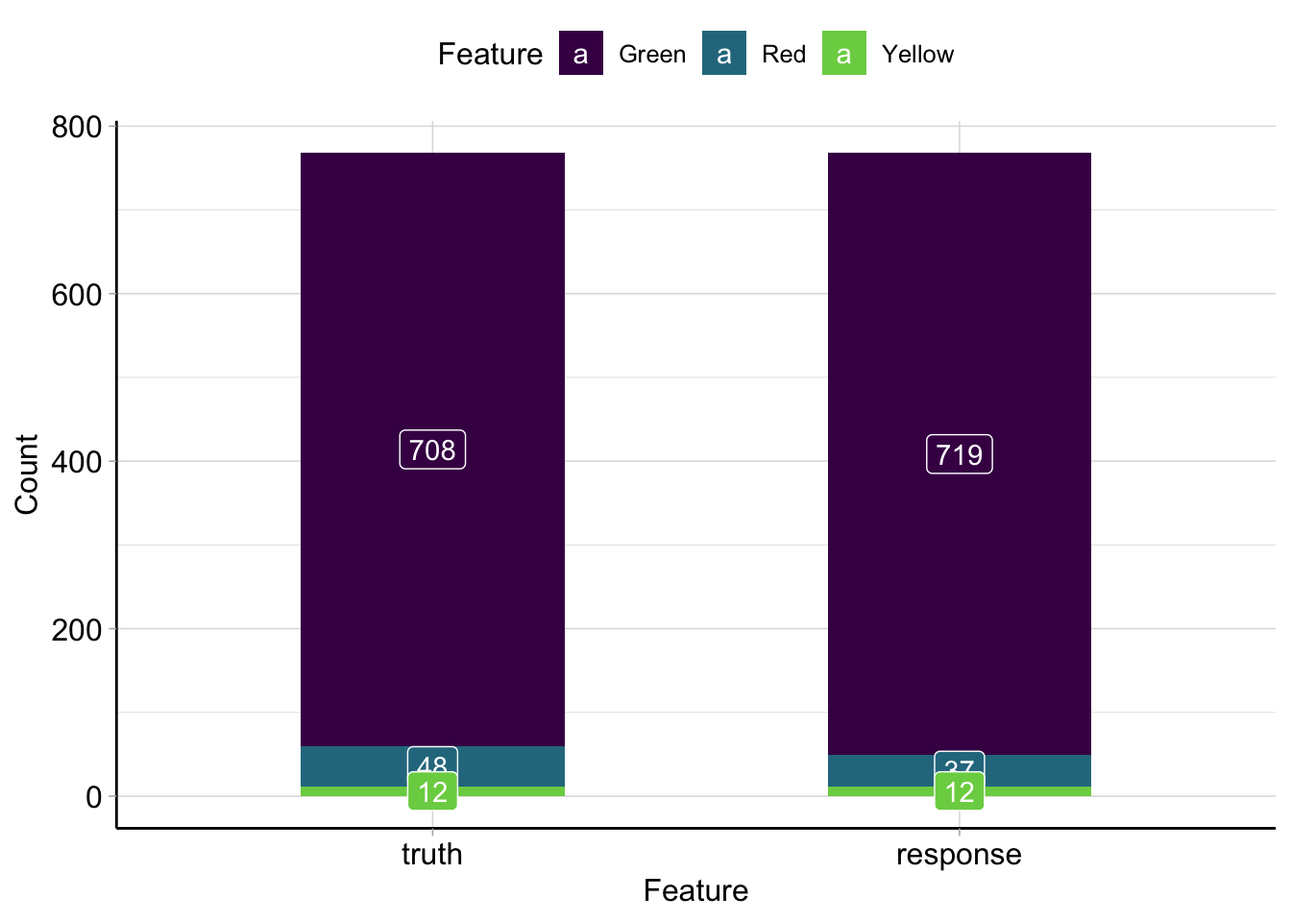
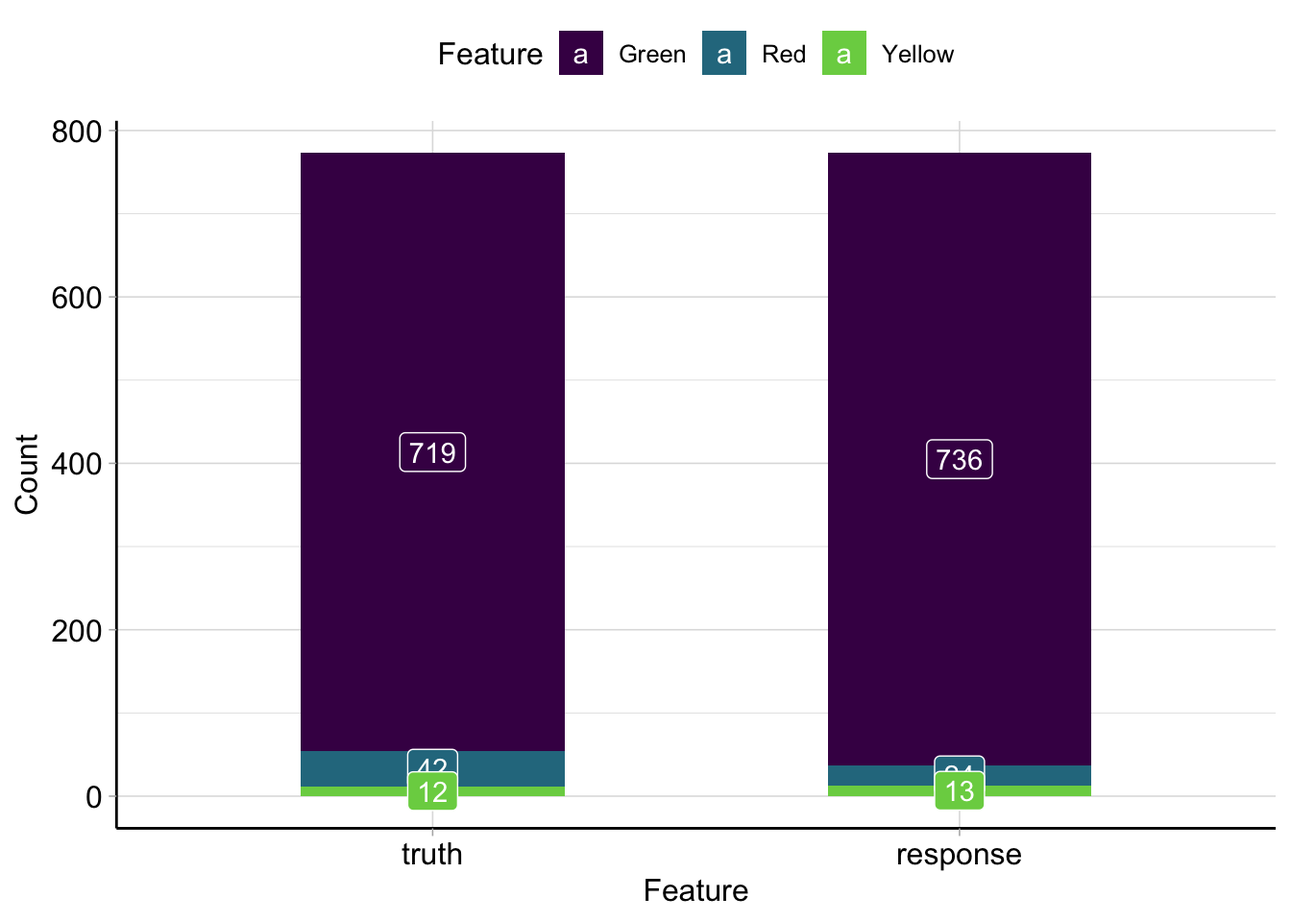
feat: changed to panel data version

diff --git a/notebooks/supplier-case-study.html b/notebooks/supplier-case-study.html
@@ -703,29 +703,21 @@ code span.wa { color: #60a0b0; font-weight: bold; font-style: italic; } /* Warni
 <div class="sourceCode cell-code" id="cb17"><pre class="sourceCode r code-with-copy"><code class="sourceCode r"><span id="cb17-1"><a href="#cb17-1" aria-hidden="true" tabindex="-1"></a>supplier <span class="ot">&lt;-</span> <span class="fu">import_data</span>(<span class="st">"../Data/"</span>) <span class="sc">%&gt;%</span></span>
 <span id="cb17-2"><a href="#cb17-2" aria-hidden="true" tabindex="-1"></a>  <span class="fu">clean_cols</span>() <span class="sc">%&gt;%</span> </span>
 <span id="cb17-3"><a href="#cb17-3" aria-hidden="true" tabindex="-1"></a>  <span class="fu">impute_missing</span>() <span class="sc">%&gt;%</span> </span>
-<span id="cb17-4"><a href="#cb17-4" aria-hidden="true" tabindex="-1"></a>  <span class="fu">drop_cols</span>() <span class="sc">%&gt;%</span></span>
-<span id="cb17-5"><a href="#cb17-5" aria-hidden="true" tabindex="-1"></a>  <span class="fu">add_date_feat</span>() <span class="sc">%&gt;%</span></span>
-<span id="cb17-6"><a href="#cb17-6" aria-hidden="true" tabindex="-1"></a>  <span class="fu">add_interaction</span>() <span class="sc">%&gt;%</span> </span>
-<span id="cb17-7"><a href="#cb17-7" aria-hidden="true" tabindex="-1"></a>  <span class="fu">add_count</span>() <span class="sc">%&gt;%</span> </span>
-<span id="cb17-8"><a href="#cb17-8" aria-hidden="true" tabindex="-1"></a>  <span class="fu">apply_lags</span>() <span class="sc">%&gt;%</span> </span>
-<span id="cb17-9"><a href="#cb17-9" aria-hidden="true" tabindex="-1"></a>  <span class="fu">ungroup</span>()</span>
-<span id="cb17-10"><a href="#cb17-10" aria-hidden="true" tabindex="-1"></a>  </span>
-<span id="cb17-11"><a href="#cb17-11" aria-hidden="true" tabindex="-1"></a>train_data <span class="ot">&lt;-</span> supplier <span class="sc">%&gt;%</span></span>
-<span id="cb17-12"><a href="#cb17-12" aria-hidden="true" tabindex="-1"></a>  <span class="fu">group_by</span>(supplier_id, derivative_name) <span class="sc">%&gt;%</span> </span>
-<span id="cb17-13"><a href="#cb17-13" aria-hidden="true" tabindex="-1"></a>  <span class="fu">arrange</span>(recent_month) <span class="sc">%&gt;%</span> </span>
-<span id="cb17-14"><a href="#cb17-14" aria-hidden="true" tabindex="-1"></a>  <span class="fu">slice</span>(<span class="dv">1</span><span class="sc">:</span>(<span class="fu">n</span>() <span class="sc">-</span> <span class="dv">1</span>)) <span class="sc">%&gt;%</span></span>
-<span id="cb17-15"><a href="#cb17-15" aria-hidden="true" tabindex="-1"></a>  <span class="fu">ungroup</span>() <span class="sc">%&gt;%</span> </span>
-<span id="cb17-16"><a href="#cb17-16" aria-hidden="true" tabindex="-1"></a>  <span class="fu">select</span>(<span class="sc">-</span><span class="fu">c</span>(recent_month))</span>
-<span id="cb17-17"><a href="#cb17-17" aria-hidden="true" tabindex="-1"></a></span>
-<span id="cb17-18"><a href="#cb17-18" aria-hidden="true" tabindex="-1"></a>test_data <span class="ot">&lt;-</span> supplier <span class="sc">%&gt;%</span></span>
-<span id="cb17-19"><a href="#cb17-19" aria-hidden="true" tabindex="-1"></a>  <span class="fu">group_by</span>(supplier_id, derivative_name) <span class="sc">%&gt;%</span> </span>
-<span id="cb17-20"><a href="#cb17-20" aria-hidden="true" tabindex="-1"></a>  <span class="fu">arrange</span>(recent_month) <span class="sc">%&gt;%</span> </span>
-<span id="cb17-21"><a href="#cb17-21" aria-hidden="true" tabindex="-1"></a>  <span class="fu">slice</span>(<span class="fu">n</span>()) <span class="sc">%&gt;%</span></span>
-<span id="cb17-22"><a href="#cb17-22" aria-hidden="true" tabindex="-1"></a>  <span class="fu">ungroup</span>() <span class="sc">%&gt;%</span> </span>
-<span id="cb17-23"><a href="#cb17-23" aria-hidden="true" tabindex="-1"></a>  <span class="fu">select</span>(<span class="sc">-</span><span class="fu">c</span>(recent_month))</span>
-<span id="cb17-24"><a href="#cb17-24" aria-hidden="true" tabindex="-1"></a></span>
-<span id="cb17-25"><a href="#cb17-25" aria-hidden="true" tabindex="-1"></a>all_data <span class="ot">&lt;-</span> supplier <span class="sc">%&gt;%</span> </span>
-<span id="cb17-26"><a href="#cb17-26" aria-hidden="true" tabindex="-1"></a>  <span class="fu">select</span>(<span class="sc">-</span><span class="fu">c</span>(recent_month))</span></code><button title="Copy to Clipboard" class="code-copy-button"><i class="bi"></i></button></pre></div>
+<span id="cb17-4"><a href="#cb17-4" aria-hidden="true" tabindex="-1"></a>  <span class="fu">remove_missing_date</span>() <span class="sc">%&gt;%</span> </span>
+<span id="cb17-5"><a href="#cb17-5" aria-hidden="true" tabindex="-1"></a>  <span class="fu">drop_cols</span>() <span class="sc">%&gt;%</span></span>
+<span id="cb17-6"><a href="#cb17-6" aria-hidden="true" tabindex="-1"></a>  <span class="fu">add_date_feat</span>() <span class="sc">%&gt;%</span></span>
+<span id="cb17-7"><a href="#cb17-7" aria-hidden="true" tabindex="-1"></a>  <span class="fu">add_interaction</span>() <span class="sc">%&gt;%</span> </span>
+<span id="cb17-8"><a href="#cb17-8" aria-hidden="true" tabindex="-1"></a>  <span class="fu">add_count</span>() <span class="sc">%&gt;%</span> </span>
+<span id="cb17-9"><a href="#cb17-9" aria-hidden="true" tabindex="-1"></a>  <span class="fu">apply_lags</span>() <span class="sc">%&gt;%</span> </span>
+<span id="cb17-10"><a href="#cb17-10" aria-hidden="true" tabindex="-1"></a>  <span class="fu">ungroup</span>()</span>
+<span id="cb17-11"><a href="#cb17-11" aria-hidden="true" tabindex="-1"></a>  </span>
+<span id="cb17-12"><a href="#cb17-12" aria-hidden="true" tabindex="-1"></a>train_data <span class="ot">&lt;-</span> supplier <span class="sc">%&gt;%</span></span>
+<span id="cb17-13"><a href="#cb17-13" aria-hidden="true" tabindex="-1"></a>  <span class="fu">filter</span>(recent_month <span class="sc">&lt;</span> <span class="st">"2022-10-01"</span>) <span class="sc">%&gt;%</span> </span>
+<span id="cb17-14"><a href="#cb17-14" aria-hidden="true" tabindex="-1"></a>  <span class="fu">select</span>(<span class="sc">-</span>recent_month)</span>
+<span id="cb17-15"><a href="#cb17-15" aria-hidden="true" tabindex="-1"></a></span>
+<span id="cb17-16"><a href="#cb17-16" aria-hidden="true" tabindex="-1"></a>test_data <span class="ot">&lt;-</span> supplier <span class="sc">%&gt;%</span></span>
+<span id="cb17-17"><a href="#cb17-17" aria-hidden="true" tabindex="-1"></a>  <span class="fu">filter</span>(recent_month <span class="sc">&gt;=</span> <span class="st">"2022-10-01"</span>) <span class="sc">%&gt;%</span> </span>
+<span id="cb17-18"><a href="#cb17-18" aria-hidden="true" tabindex="-1"></a>  <span class="fu">select</span>(<span class="sc">-</span>recent_month)</span></code><button title="Copy to Clipboard" class="code-copy-button"><i class="bi"></i></button></pre></div>
 </details>
 </div>
 <div class="cell">
@@ -736,7 +728,7 @@ code span.wa { color: #60a0b0; font-weight: bold; font-style: italic; } /* Warni
 <span id="cb18-3"><a href="#cb18-3" aria-hidden="true" tabindex="-1"></a></span>
 <span id="cb18-4"><a href="#cb18-4" aria-hidden="true" tabindex="-1"></a>task_train <span class="ot">&lt;-</span> <span class="fu">as_task_classif</span>(train_data, <span class="at">target =</span> <span class="st">"result"</span>, <span class="at">id =</span> <span class="st">"supplier_id"</span>)</span>
 <span id="cb18-5"><a href="#cb18-5" aria-hidden="true" tabindex="-1"></a>task_test <span class="ot">&lt;-</span> <span class="fu">as_task_classif</span>(test_data, <span class="at">target =</span> <span class="st">"result"</span>, <span class="at">id =</span> <span class="st">"supplier_id"</span>)</span>
-<span id="cb18-6"><a href="#cb18-6" aria-hidden="true" tabindex="-1"></a>task <span class="ot">&lt;-</span> <span class="fu">as_task_classif</span>(all_data, <span class="at">target =</span> <span class="st">"result"</span>, <span class="at">id =</span> <span class="st">"supplier_id"</span>)</span>
+<span id="cb18-6"><a href="#cb18-6" aria-hidden="true" tabindex="-1"></a>task <span class="ot">&lt;-</span> <span class="fu">as_task_classif</span>(<span class="fu">select</span>(supplier, <span class="sc">-</span>recent_month), <span class="at">target =</span> <span class="st">"result"</span>, <span class="at">id =</span> <span class="st">"supplier_id"</span>)</span>
 <span id="cb18-7"><a href="#cb18-7" aria-hidden="true" tabindex="-1"></a></span>
 <span id="cb18-8"><a href="#cb18-8" aria-hidden="true" tabindex="-1"></a>learner <span class="ot">&lt;-</span> <span class="fu">lrn</span>(<span class="st">"classif.lightgbm"</span>)</span>
 <span id="cb18-9"><a href="#cb18-9" aria-hidden="true" tabindex="-1"></a>learner<span class="sc">$</span><span class="fu">train</span>(task_train)</span>
@@ -755,7 +747,7 @@ code span.wa { color: #60a0b0; font-weight: bold; font-style: italic; } /* Warni
 
 <div data-pagedtable="false">
   <script data-pagedtable-source="" type="application/json">
-{"columns":[{"label":["feature"],"name":[1],"type":["chr"],"align":["left"]},{"label":["importance"],"name":[2],"type":["dbl"],"align":["right"]}],"data":[{"1":"lag_1_result","2":"0.3789156335"},{"1":"supplier_id","2":"0.2536835232"},{"1":"lag_3_result","2":"0.0720276388"},{"1":"lag_2_result","2":"0.0501954460"},{"1":"quarter","2":"0.0477518562"},{"1":"lag_lpkm_12m","2":"0.0453986983"},{"1":"lag_amount_backlogs_12m","2":"0.0325868974"},{"1":"lag_amount_backlogs_3m","2":"0.0227948980"},{"1":"lag_amount_wd_12m","2":"0.0208569570"},{"1":"lag_amount_wd_3m","2":"0.0154806289"},{"1":"lag_amount_backlogs_6m","2":"0.0151717027"},{"1":"name_count","2":"0.0129391323"},{"1":"month","2":"0.0088433693"},{"1":"derivative_name","2":"0.0086680729"},{"1":"lag_amount_wd_6m","2":"0.0074752046"},{"1":"lag_bad_supplier_indicator","2":"0.0038843971"},{"1":"region_count","2":"0.0019962257"},{"1":"production_count","2":"0.0010939967"},{"1":"region_production","2":"0.0002357214"}],"options":{"columns":{"min":{},"max":[10]},"rows":{"min":[10],"max":[10]},"pages":{}}}
+{"columns":[{"label":["feature"],"name":[1],"type":["chr"],"align":["left"]},{"label":["importance"],"name":[2],"type":["dbl"],"align":["right"]}],"data":[{"1":"lag_1_result","2":"0.3560249302"},{"1":"supplier_id","2":"0.2779699789"},{"1":"lag_3_result","2":"0.0775895482"},{"1":"quarter","2":"0.0487955060"},{"1":"lag_2_result","2":"0.0468795357"},{"1":"lag_lpkm_12m","2":"0.0442287084"},{"1":"lag_amount_backlogs_12m","2":"0.0300762899"},{"1":"lag_amount_backlogs_3m","2":"0.0189117678"},{"1":"name_count","2":"0.0187810934"},{"1":"lag_amount_backlogs_6m","2":"0.0148491954"},{"1":"lag_amount_wd_12m","2":"0.0144603867"},{"1":"lag_amount_wd_3m","2":"0.0118982800"},{"1":"region_count","2":"0.0092937608"},{"1":"derivative_name","2":"0.0083287991"},{"1":"month","2":"0.0079650621"},{"1":"lag_amount_wd_6m","2":"0.0079280578"},{"1":"lag_bad_supplier_indicator","2":"0.0042059866"},{"1":"production_count","2":"0.0012664880"},{"1":"region_production","2":"0.0005466248"}],"options":{"columns":{"min":{},"max":[10]},"rows":{"min":[10],"max":[10]},"pages":{}}}
   </script>
 </div>
 </div>
@@ -783,21 +775,21 @@ code span.wa { color: #60a0b0; font-weight: bold; font-style: italic; } /* Warni
 <tbody>
 <tr class="odd">
 <td style="text-align: left;">Green</td>
-<td style="text-align: right;">702</td>
-<td style="text-align: right;">13</td>
-<td style="text-align: right;">4</td>
+<td style="text-align: right;">707</td>
+<td style="text-align: right;">23</td>
+<td style="text-align: right;">6</td>
 </tr>
 <tr class="even">
 <td style="text-align: left;">Red</td>
-<td style="text-align: right;">3</td>
-<td style="text-align: right;">32</td>
-<td style="text-align: right;">2</td>
+<td style="text-align: right;">7</td>
+<td style="text-align: right;">16</td>
+<td style="text-align: right;">1</td>
 </tr>
 <tr class="odd">
 <td style="text-align: left;">Yellow</td>
+<td style="text-align: right;">5</td>
 <td style="text-align: right;">3</td>
-<td style="text-align: right;">3</td>
-<td style="text-align: right;">6</td>
+<td style="text-align: right;">5</td>
 </tr>
 </tbody>
 </table>
@@ -815,7 +807,7 @@ code span.wa { color: #60a0b0; font-weight: bold; font-style: italic; } /* Warni
 
 <div data-pagedtable="false">
   <script data-pagedtable-source="" type="application/json">
-{"columns":[{"label":["Metric"],"name":[1],"type":["chr"],"align":["left"]},{"label":["Value"],"name":[2],"type":["chr"],"align":["left"]}],"data":[{"1":"classif.acc","2":"96.35%"},{"1":"classif.ce","2":"3.65%"},{"1":"classif.logloss","2":"24.82%"}],"options":{"columns":{"min":{},"max":[10]},"rows":{"min":[10],"max":[10]},"pages":{}}}
+{"columns":[{"label":["Metric"],"name":[1],"type":["chr"],"align":["left"]},{"label":["Value"],"name":[2],"type":["chr"],"align":["left"]}],"data":[{"1":"classif.acc","2":"94.18%"},{"1":"classif.ce","2":"5.82%"},{"1":"classif.logloss","2":"38.55%"}],"options":{"columns":{"min":{},"max":[10]},"rows":{"min":[10],"max":[10]},"pages":{}}}
   </script>
 </div>
 </div>
@@ -841,8 +833,8 @@ code span.wa { color: #60a0b0; font-weight: bold; font-style: italic; } /* Warni
 <span id="cb23-2"><a href="#cb23-2" aria-hidden="true" tabindex="-1"></a><span class="fu">library</span>(<span class="st">"DALEXtra"</span>)</span>
 <span id="cb23-3"><a href="#cb23-3" aria-hidden="true" tabindex="-1"></a></span>
 <span id="cb23-4"><a href="#cb23-4" aria-hidden="true" tabindex="-1"></a>lgbm_exp <span class="ot">&lt;-</span> <span class="fu">explain_mlr3</span>(learner,</span>
-<span id="cb23-5"><a href="#cb23-5" aria-hidden="true" tabindex="-1"></a>  <span class="at">data =</span> all_data,</span>
-<span id="cb23-6"><a href="#cb23-6" aria-hidden="true" tabindex="-1"></a>  <span class="at">y =</span> <span class="fu">as.integer</span>(all_data<span class="sc">$</span>result),</span>
+<span id="cb23-5"><a href="#cb23-5" aria-hidden="true" tabindex="-1"></a>  <span class="at">data =</span> supplier <span class="sc">%&gt;%</span> <span class="fu">select</span>(<span class="sc">-</span>recent_month),</span>
+<span id="cb23-6"><a href="#cb23-6" aria-hidden="true" tabindex="-1"></a>  <span class="at">y =</span> <span class="fu">as.integer</span>(supplier<span class="sc">$</span>result),</span>
 <span id="cb23-7"><a href="#cb23-7" aria-hidden="true" tabindex="-1"></a>  <span class="at">label =</span> <span class="st">"LGBM"</span>,</span>
 <span id="cb23-8"><a href="#cb23-8" aria-hidden="true" tabindex="-1"></a>  <span class="at">colorize =</span> <span class="cn">TRUE</span> </span>
 <span id="cb23-9"><a href="#cb23-9" aria-hidden="true" tabindex="-1"></a>)</span></code><button title="Copy to Clipboard" class="code-copy-button"><i class="bi"></i></button></pre></div>
@@ -850,9 +842,9 @@ code span.wa { color: #60a0b0; font-weight: bold; font-style: italic; } /* Warni
 <div class="cell-output cell-output-stdout">
 <pre><code>Preparation of a new explainer is initiated
   -&gt; model label       :  LGBM 
-  -&gt; data              :  4166  rows  22  cols 
+  -&gt; data              :  4143  rows  22  cols 
   -&gt; data              :  tibble converted into a data.frame 
-  -&gt; target variable   :  4166  values 
+  -&gt; target variable   :  4143  values 
   -&gt; predict function  :  yhat.LearnerClassif  will be used ( [33m default [39m )
   -&gt; predicted values  :  No value for predict function target column. ( [33m default [39m )
   -&gt; model_info        :  package mlr3 , ver. 0.14.1 , task multiclass ( [33m default [39m ) 
@@ -874,7 +866,7 @@ code span.wa { color: #60a0b0; font-weight: bold; font-style: italic; } /* Warni
 
 <div data-pagedtable="false">
   <script data-pagedtable-source="" type="application/json">
-{"columns":[{"label":[""],"name":["_rn_"],"type":[""],"align":["left"]},{"label":["variable"],"name":[1],"type":["chr"],"align":["left"]},{"label":["permutation"],"name":[2],"type":["dbl"],"align":["right"]},{"label":["dropout_loss"],"name":[3],"type":["dbl"],"align":["right"]},{"label":["label"],"name":[4],"type":["chr"],"align":["left"]}],"data":[{"1":"_full_model_","2":"0","3":"51.64986","4":"LGBM","_rn_":"1"},{"1":"lag_amount_wd_12m","2":"0","3":"51.29783","4":"LGBM","_rn_":"2"},{"1":"region_count","2":"0","3":"51.39274","4":"LGBM","_rn_":"3"},{"1":"lag_amount_wd_6m","2":"0","3":"51.51069","4":"LGBM","_rn_":"4"},{"1":"production_count","2":"0","3":"51.62592","4":"LGBM","_rn_":"5"},{"1":"derivative_region","2":"0","3":"51.64986","4":"LGBM","_rn_":"6"}],"options":{"columns":{"min":{},"max":[10]},"rows":{"min":[10],"max":[10]},"pages":{}}}
+{"columns":[{"label":[""],"name":["_rn_"],"type":[""],"align":["left"]},{"label":["variable"],"name":[1],"type":["chr"],"align":["left"]},{"label":["permutation"],"name":[2],"type":["dbl"],"align":["right"]},{"label":["dropout_loss"],"name":[3],"type":["dbl"],"align":["right"]},{"label":["label"],"name":[4],"type":["chr"],"align":["left"]}],"data":[{"1":"_full_model_","2":"0","3":"62.39724","4":"LGBM","_rn_":"1"},{"1":"region_count","2":"0","3":"61.86329","4":"LGBM","_rn_":"2"},{"1":"derivative_region","2":"0","3":"62.39724","4":"LGBM","_rn_":"3"},{"1":"production_line","2":"0","3":"62.39724","4":"LGBM","_rn_":"4"},{"1":"result","2":"0","3":"62.39724","4":"LGBM","_rn_":"5"},{"1":"region_production","2":"0","3":"62.40409","4":"LGBM","_rn_":"6"}],"options":{"columns":{"min":{},"max":[10]},"rows":{"min":[10],"max":[10]},"pages":{}}}
   </script>
 </div>
 </div>
@@ -1410,108 +1402,100 @@ window.document.addEventListener("DOMContentLoaded", function (event) {
 <span id="cb28-382"><a href="#cb28-382" aria-hidden="true" tabindex="-1"></a>supplier <span class="ot">&lt;-</span> <span class="fu">import_data</span>(<span class="st">"../Data/"</span>) <span class="sc">%&gt;%</span></span>
 <span id="cb28-383"><a href="#cb28-383" aria-hidden="true" tabindex="-1"></a>  <span class="fu">clean_cols</span>() <span class="sc">%&gt;%</span> </span>
 <span id="cb28-384"><a href="#cb28-384" aria-hidden="true" tabindex="-1"></a>  <span class="fu">impute_missing</span>() <span class="sc">%&gt;%</span> </span>
-<span id="cb28-385"><a href="#cb28-385" aria-hidden="true" tabindex="-1"></a>  <span class="fu">drop_cols</span>() <span class="sc">%&gt;%</span></span>
-<span id="cb28-386"><a href="#cb28-386" aria-hidden="true" tabindex="-1"></a>  <span class="fu">add_date_feat</span>() <span class="sc">%&gt;%</span></span>
-<span id="cb28-387"><a href="#cb28-387" aria-hidden="true" tabindex="-1"></a>  <span class="fu">add_interaction</span>() <span class="sc">%&gt;%</span> </span>
-<span id="cb28-388"><a href="#cb28-388" aria-hidden="true" tabindex="-1"></a>  <span class="fu">add_count</span>() <span class="sc">%&gt;%</span> </span>
-<span id="cb28-389"><a href="#cb28-389" aria-hidden="true" tabindex="-1"></a>  <span class="fu">apply_lags</span>() <span class="sc">%&gt;%</span> </span>
-<span id="cb28-390"><a href="#cb28-390" aria-hidden="true" tabindex="-1"></a>  <span class="fu">ungroup</span>()</span>
-<span id="cb28-391"><a href="#cb28-391" aria-hidden="true" tabindex="-1"></a>  </span>
-<span id="cb28-392"><a href="#cb28-392" aria-hidden="true" tabindex="-1"></a>train_data <span class="ot">&lt;-</span> supplier <span class="sc">%&gt;%</span></span>
-<span id="cb28-393"><a href="#cb28-393" aria-hidden="true" tabindex="-1"></a>  <span class="fu">group_by</span>(supplier_id, derivative_name) <span class="sc">%&gt;%</span> </span>
-<span id="cb28-394"><a href="#cb28-394" aria-hidden="true" tabindex="-1"></a>  <span class="fu">arrange</span>(recent_month) <span class="sc">%&gt;%</span> </span>
-<span id="cb28-395"><a href="#cb28-395" aria-hidden="true" tabindex="-1"></a>  <span class="fu">slice</span>(<span class="dv">1</span><span class="sc">:</span>(<span class="fu">n</span>() <span class="sc">-</span> <span class="dv">1</span>)) <span class="sc">%&gt;%</span></span>
-<span id="cb28-396"><a href="#cb28-396" aria-hidden="true" tabindex="-1"></a>  <span class="fu">ungroup</span>() <span class="sc">%&gt;%</span> </span>
-<span id="cb28-397"><a href="#cb28-397" aria-hidden="true" tabindex="-1"></a>  <span class="fu">select</span>(<span class="sc">-</span><span class="fu">c</span>(recent_month))</span>
-<span id="cb28-398"><a href="#cb28-398" aria-hidden="true" tabindex="-1"></a></span>
-<span id="cb28-399"><a href="#cb28-399" aria-hidden="true" tabindex="-1"></a>test_data <span class="ot">&lt;-</span> supplier <span class="sc">%&gt;%</span></span>
-<span id="cb28-400"><a href="#cb28-400" aria-hidden="true" tabindex="-1"></a>  <span class="fu">group_by</span>(supplier_id, derivative_name) <span class="sc">%&gt;%</span> </span>
-<span id="cb28-401"><a href="#cb28-401" aria-hidden="true" tabindex="-1"></a>  <span class="fu">arrange</span>(recent_month) <span class="sc">%&gt;%</span> </span>
-<span id="cb28-402"><a href="#cb28-402" aria-hidden="true" tabindex="-1"></a>  <span class="fu">slice</span>(<span class="fu">n</span>()) <span class="sc">%&gt;%</span></span>
-<span id="cb28-403"><a href="#cb28-403" aria-hidden="true" tabindex="-1"></a>  <span class="fu">ungroup</span>() <span class="sc">%&gt;%</span> </span>
-<span id="cb28-404"><a href="#cb28-404" aria-hidden="true" tabindex="-1"></a>  <span class="fu">select</span>(<span class="sc">-</span><span class="fu">c</span>(recent_month))</span>
-<span id="cb28-405"><a href="#cb28-405" aria-hidden="true" tabindex="-1"></a></span>
-<span id="cb28-406"><a href="#cb28-406" aria-hidden="true" tabindex="-1"></a>all_data <span class="ot">&lt;-</span> supplier <span class="sc">%&gt;%</span> </span>
-<span id="cb28-407"><a href="#cb28-407" aria-hidden="true" tabindex="-1"></a>  <span class="fu">select</span>(<span class="sc">-</span><span class="fu">c</span>(recent_month))</span>
-<span id="cb28-408"><a href="#cb28-408" aria-hidden="true" tabindex="-1"></a><span class="in">```</span></span>
-<span id="cb28-409"><a href="#cb28-409" aria-hidden="true" tabindex="-1"></a></span>
-<span id="cb28-412"><a href="#cb28-412" aria-hidden="true" tabindex="-1"></a><span class="in">```{r}</span></span>
-<span id="cb28-413"><a href="#cb28-413" aria-hidden="true" tabindex="-1"></a><span class="co">#| label: train-model </span></span>
-<span id="cb28-414"><a href="#cb28-414" aria-hidden="true" tabindex="-1"></a><span class="fu">library</span>(mlr3)</span>
-<span id="cb28-415"><a href="#cb28-415" aria-hidden="true" tabindex="-1"></a><span class="fu">library</span>(mlr3extralearners)</span>
-<span id="cb28-416"><a href="#cb28-416" aria-hidden="true" tabindex="-1"></a></span>
-<span id="cb28-417"><a href="#cb28-417" aria-hidden="true" tabindex="-1"></a>task_train <span class="ot">&lt;-</span> <span class="fu">as_task_classif</span>(train_data, <span class="at">target =</span> <span class="st">"result"</span>, <span class="at">id =</span> <span class="st">"supplier_id"</span>)</span>
-<span id="cb28-418"><a href="#cb28-418" aria-hidden="true" tabindex="-1"></a>task_test <span class="ot">&lt;-</span> <span class="fu">as_task_classif</span>(test_data, <span class="at">target =</span> <span class="st">"result"</span>, <span class="at">id =</span> <span class="st">"supplier_id"</span>)</span>
-<span id="cb28-419"><a href="#cb28-419" aria-hidden="true" tabindex="-1"></a>task <span class="ot">&lt;-</span> <span class="fu">as_task_classif</span>(all_data, <span class="at">target =</span> <span class="st">"result"</span>, <span class="at">id =</span> <span class="st">"supplier_id"</span>)</span>
-<span id="cb28-420"><a href="#cb28-420" aria-hidden="true" tabindex="-1"></a></span>
-<span id="cb28-421"><a href="#cb28-421" aria-hidden="true" tabindex="-1"></a>learner <span class="ot">&lt;-</span> <span class="fu">lrn</span>(<span class="st">"classif.lightgbm"</span>)</span>
-<span id="cb28-422"><a href="#cb28-422" aria-hidden="true" tabindex="-1"></a>learner<span class="sc">$</span><span class="fu">train</span>(task_train)</span>
-<span id="cb28-423"><a href="#cb28-423" aria-hidden="true" tabindex="-1"></a>prediction <span class="ot">&lt;-</span> learner<span class="sc">$</span><span class="fu">predict</span>(task_test)</span>
+<span id="cb28-385"><a href="#cb28-385" aria-hidden="true" tabindex="-1"></a>  <span class="fu">remove_missing_date</span>() <span class="sc">%&gt;%</span> </span>
+<span id="cb28-386"><a href="#cb28-386" aria-hidden="true" tabindex="-1"></a>  <span class="fu">drop_cols</span>() <span class="sc">%&gt;%</span></span>
+<span id="cb28-387"><a href="#cb28-387" aria-hidden="true" tabindex="-1"></a>  <span class="fu">add_date_feat</span>() <span class="sc">%&gt;%</span></span>
+<span id="cb28-388"><a href="#cb28-388" aria-hidden="true" tabindex="-1"></a>  <span class="fu">add_interaction</span>() <span class="sc">%&gt;%</span> </span>
+<span id="cb28-389"><a href="#cb28-389" aria-hidden="true" tabindex="-1"></a>  <span class="fu">add_count</span>() <span class="sc">%&gt;%</span> </span>
+<span id="cb28-390"><a href="#cb28-390" aria-hidden="true" tabindex="-1"></a>  <span class="fu">apply_lags</span>() <span class="sc">%&gt;%</span> </span>
+<span id="cb28-391"><a href="#cb28-391" aria-hidden="true" tabindex="-1"></a>  <span class="fu">ungroup</span>()</span>
+<span id="cb28-392"><a href="#cb28-392" aria-hidden="true" tabindex="-1"></a>  </span>
+<span id="cb28-393"><a href="#cb28-393" aria-hidden="true" tabindex="-1"></a>train_data <span class="ot">&lt;-</span> supplier <span class="sc">%&gt;%</span></span>
+<span id="cb28-394"><a href="#cb28-394" aria-hidden="true" tabindex="-1"></a>  <span class="fu">filter</span>(recent_month <span class="sc">&lt;</span> <span class="st">"2022-10-01"</span>) <span class="sc">%&gt;%</span> </span>
+<span id="cb28-395"><a href="#cb28-395" aria-hidden="true" tabindex="-1"></a>  <span class="fu">select</span>(<span class="sc">-</span>recent_month)</span>
+<span id="cb28-396"><a href="#cb28-396" aria-hidden="true" tabindex="-1"></a></span>
+<span id="cb28-397"><a href="#cb28-397" aria-hidden="true" tabindex="-1"></a>test_data <span class="ot">&lt;-</span> supplier <span class="sc">%&gt;%</span></span>
+<span id="cb28-398"><a href="#cb28-398" aria-hidden="true" tabindex="-1"></a>  <span class="fu">filter</span>(recent_month <span class="sc">&gt;=</span> <span class="st">"2022-10-01"</span>) <span class="sc">%&gt;%</span> </span>
+<span id="cb28-399"><a href="#cb28-399" aria-hidden="true" tabindex="-1"></a>  <span class="fu">select</span>(<span class="sc">-</span>recent_month)</span>
+<span id="cb28-400"><a href="#cb28-400" aria-hidden="true" tabindex="-1"></a><span class="in">```</span></span>
+<span id="cb28-401"><a href="#cb28-401" aria-hidden="true" tabindex="-1"></a></span>
+<span id="cb28-404"><a href="#cb28-404" aria-hidden="true" tabindex="-1"></a><span class="in">```{r}</span></span>
+<span id="cb28-405"><a href="#cb28-405" aria-hidden="true" tabindex="-1"></a><span class="co">#| label: train-model </span></span>
+<span id="cb28-406"><a href="#cb28-406" aria-hidden="true" tabindex="-1"></a><span class="fu">library</span>(mlr3)</span>
+<span id="cb28-407"><a href="#cb28-407" aria-hidden="true" tabindex="-1"></a><span class="fu">library</span>(mlr3extralearners)</span>
+<span id="cb28-408"><a href="#cb28-408" aria-hidden="true" tabindex="-1"></a></span>
+<span id="cb28-409"><a href="#cb28-409" aria-hidden="true" tabindex="-1"></a>task_train <span class="ot">&lt;-</span> <span class="fu">as_task_classif</span>(train_data, <span class="at">target =</span> <span class="st">"result"</span>, <span class="at">id =</span> <span class="st">"supplier_id"</span>)</span>
+<span id="cb28-410"><a href="#cb28-410" aria-hidden="true" tabindex="-1"></a>task_test <span class="ot">&lt;-</span> <span class="fu">as_task_classif</span>(test_data, <span class="at">target =</span> <span class="st">"result"</span>, <span class="at">id =</span> <span class="st">"supplier_id"</span>)</span>
+<span id="cb28-411"><a href="#cb28-411" aria-hidden="true" tabindex="-1"></a>task <span class="ot">&lt;-</span> <span class="fu">as_task_classif</span>(<span class="fu">select</span>(supplier, <span class="sc">-</span>recent_month), <span class="at">target =</span> <span class="st">"result"</span>, <span class="at">id =</span> <span class="st">"supplier_id"</span>)</span>
+<span id="cb28-412"><a href="#cb28-412" aria-hidden="true" tabindex="-1"></a></span>
+<span id="cb28-413"><a href="#cb28-413" aria-hidden="true" tabindex="-1"></a>learner <span class="ot">&lt;-</span> <span class="fu">lrn</span>(<span class="st">"classif.lightgbm"</span>)</span>
+<span id="cb28-414"><a href="#cb28-414" aria-hidden="true" tabindex="-1"></a>learner<span class="sc">$</span><span class="fu">train</span>(task_train)</span>
+<span id="cb28-415"><a href="#cb28-415" aria-hidden="true" tabindex="-1"></a>prediction <span class="ot">&lt;-</span> learner<span class="sc">$</span><span class="fu">predict</span>(task_test)</span>
+<span id="cb28-416"><a href="#cb28-416" aria-hidden="true" tabindex="-1"></a><span class="in">```</span></span>
+<span id="cb28-417"><a href="#cb28-417" aria-hidden="true" tabindex="-1"></a><span class="fu">### Feature importance</span></span>
+<span id="cb28-418"><a href="#cb28-418" aria-hidden="true" tabindex="-1"></a></span>
+<span id="cb28-421"><a href="#cb28-421" aria-hidden="true" tabindex="-1"></a><span class="in">```{r}</span></span>
+<span id="cb28-422"><a href="#cb28-422" aria-hidden="true" tabindex="-1"></a>learner<span class="sc">$</span><span class="fu">importance</span>() <span class="sc">%&gt;%</span> </span>
+<span id="cb28-423"><a href="#cb28-423" aria-hidden="true" tabindex="-1"></a>  tibble<span class="sc">::</span><span class="fu">enframe</span>(<span class="at">name =</span> <span class="st">"feature"</span>, <span class="at">value =</span> <span class="st">"importance"</span>)</span>
 <span id="cb28-424"><a href="#cb28-424" aria-hidden="true" tabindex="-1"></a><span class="in">```</span></span>
-<span id="cb28-425"><a href="#cb28-425" aria-hidden="true" tabindex="-1"></a><span class="fu">### Feature importance</span></span>
-<span id="cb28-426"><a href="#cb28-426" aria-hidden="true" tabindex="-1"></a></span>
-<span id="cb28-429"><a href="#cb28-429" aria-hidden="true" tabindex="-1"></a><span class="in">```{r}</span></span>
-<span id="cb28-430"><a href="#cb28-430" aria-hidden="true" tabindex="-1"></a>learner<span class="sc">$</span><span class="fu">importance</span>() <span class="sc">%&gt;%</span> </span>
-<span id="cb28-431"><a href="#cb28-431" aria-hidden="true" tabindex="-1"></a>  tibble<span class="sc">::</span><span class="fu">enframe</span>(<span class="at">name =</span> <span class="st">"feature"</span>, <span class="at">value =</span> <span class="st">"importance"</span>)</span>
-<span id="cb28-432"><a href="#cb28-432" aria-hidden="true" tabindex="-1"></a><span class="in">```</span></span>
-<span id="cb28-433"><a href="#cb28-433" aria-hidden="true" tabindex="-1"></a></span>
-<span id="cb28-434"><a href="#cb28-434" aria-hidden="true" tabindex="-1"></a><span class="fu">### Evaluation: Out-of-sample for most recent month on supplier, derivative level</span></span>
-<span id="cb28-435"><a href="#cb28-435" aria-hidden="true" tabindex="-1"></a></span>
-<span id="cb28-438"><a href="#cb28-438" aria-hidden="true" tabindex="-1"></a><span class="in">```{r}</span></span>
-<span id="cb28-439"><a href="#cb28-439" aria-hidden="true" tabindex="-1"></a><span class="co">#| label: out-of-sample-prediction</span></span>
-<span id="cb28-440"><a href="#cb28-440" aria-hidden="true" tabindex="-1"></a></span>
-<span id="cb28-441"><a href="#cb28-441" aria-hidden="true" tabindex="-1"></a>prediction<span class="sc">$</span>confusion <span class="sc">%&gt;%</span> </span>
-<span id="cb28-442"><a href="#cb28-442" aria-hidden="true" tabindex="-1"></a>  knitr<span class="sc">::</span><span class="fu">kable</span>(<span class="at">caption =</span> <span class="st">"Confusion Matrix"</span>)</span>
-<span id="cb28-443"><a href="#cb28-443" aria-hidden="true" tabindex="-1"></a><span class="in">```</span></span>
-<span id="cb28-444"><a href="#cb28-444" aria-hidden="true" tabindex="-1"></a></span>
-<span id="cb28-445"><a href="#cb28-445" aria-hidden="true" tabindex="-1"></a></span>
-<span id="cb28-448"><a href="#cb28-448" aria-hidden="true" tabindex="-1"></a><span class="in">```{r}</span></span>
-<span id="cb28-449"><a href="#cb28-449" aria-hidden="true" tabindex="-1"></a>measures <span class="ot">&lt;-</span> <span class="fu">msrs</span>(<span class="fu">c</span>(<span class="st">"classif.acc"</span>, <span class="st">"classif.ce"</span>, <span class="st">"classif.logloss"</span>))</span>
-<span id="cb28-450"><a href="#cb28-450" aria-hidden="true" tabindex="-1"></a>prediction<span class="sc">$</span><span class="fu">score</span>(measures) <span class="sc">%&gt;%</span> </span>
-<span id="cb28-451"><a href="#cb28-451" aria-hidden="true" tabindex="-1"></a>  tibble<span class="sc">::</span><span class="fu">enframe</span>(<span class="at">name =</span> <span class="st">"Metric"</span>, <span class="at">value =</span> <span class="st">"Value"</span>) <span class="sc">%&gt;%</span> </span>
-<span id="cb28-452"><a href="#cb28-452" aria-hidden="true" tabindex="-1"></a>  <span class="fu">mutate</span>(<span class="at">Value =</span> <span class="fu">sprintf</span>(<span class="st">"%.2f%%"</span>, Value <span class="sc">*</span> <span class="dv">100</span>))</span>
-<span id="cb28-453"><a href="#cb28-453" aria-hidden="true" tabindex="-1"></a><span class="in">```</span></span>
-<span id="cb28-454"><a href="#cb28-454" aria-hidden="true" tabindex="-1"></a></span>
-<span id="cb28-457"><a href="#cb28-457" aria-hidden="true" tabindex="-1"></a><span class="in">```{r}</span></span>
-<span id="cb28-458"><a href="#cb28-458" aria-hidden="true" tabindex="-1"></a><span class="co">#| label: accuracy-plot</span></span>
-<span id="cb28-459"><a href="#cb28-459" aria-hidden="true" tabindex="-1"></a><span class="co">#| warning: false</span></span>
-<span id="cb28-460"><a href="#cb28-460" aria-hidden="true" tabindex="-1"></a><span class="fu">library</span>(mlr3viz)</span>
-<span id="cb28-461"><a href="#cb28-461" aria-hidden="true" tabindex="-1"></a></span>
-<span id="cb28-462"><a href="#cb28-462" aria-hidden="true" tabindex="-1"></a><span class="fu">autoplot</span>(prediction)</span>
-<span id="cb28-463"><a href="#cb28-463" aria-hidden="true" tabindex="-1"></a><span class="in">```</span></span>
-<span id="cb28-464"><a href="#cb28-464" aria-hidden="true" tabindex="-1"></a></span>
-<span id="cb28-465"><a href="#cb28-465" aria-hidden="true" tabindex="-1"></a><span class="fu">### Model explaination with DALEX</span></span>
-<span id="cb28-466"><a href="#cb28-466" aria-hidden="true" tabindex="-1"></a></span>
-<span id="cb28-469"><a href="#cb28-469" aria-hidden="true" tabindex="-1"></a><span class="in">```{r}</span></span>
-<span id="cb28-470"><a href="#cb28-470" aria-hidden="true" tabindex="-1"></a><span class="co">#| warning: false</span></span>
-<span id="cb28-471"><a href="#cb28-471" aria-hidden="true" tabindex="-1"></a><span class="fu">library</span>(<span class="st">"DALEX"</span>)</span>
-<span id="cb28-472"><a href="#cb28-472" aria-hidden="true" tabindex="-1"></a><span class="fu">library</span>(<span class="st">"DALEXtra"</span>)</span>
-<span id="cb28-473"><a href="#cb28-473" aria-hidden="true" tabindex="-1"></a></span>
-<span id="cb28-474"><a href="#cb28-474" aria-hidden="true" tabindex="-1"></a>lgbm_exp <span class="ot">&lt;-</span> <span class="fu">explain_mlr3</span>(learner,</span>
-<span id="cb28-475"><a href="#cb28-475" aria-hidden="true" tabindex="-1"></a>  <span class="at">data =</span> all_data,</span>
-<span id="cb28-476"><a href="#cb28-476" aria-hidden="true" tabindex="-1"></a>  <span class="at">y =</span> <span class="fu">as.integer</span>(all_data<span class="sc">$</span>result),</span>
-<span id="cb28-477"><a href="#cb28-477" aria-hidden="true" tabindex="-1"></a>  <span class="at">label =</span> <span class="st">"LGBM"</span>,</span>
-<span id="cb28-478"><a href="#cb28-478" aria-hidden="true" tabindex="-1"></a>  <span class="at">colorize =</span> <span class="cn">TRUE</span> </span>
-<span id="cb28-479"><a href="#cb28-479" aria-hidden="true" tabindex="-1"></a>)</span>
-<span id="cb28-480"><a href="#cb28-480" aria-hidden="true" tabindex="-1"></a>supplier_vi <span class="ot">&lt;-</span> <span class="fu">model_parts</span>(lgbm_exp)</span>
-<span id="cb28-481"><a href="#cb28-481" aria-hidden="true" tabindex="-1"></a><span class="fu">head</span>(supplier_vi)</span>
-<span id="cb28-482"><a href="#cb28-482" aria-hidden="true" tabindex="-1"></a><span class="in">```</span></span>
-<span id="cb28-483"><a href="#cb28-483" aria-hidden="true" tabindex="-1"></a></span>
-<span id="cb28-486"><a href="#cb28-486" aria-hidden="true" tabindex="-1"></a><span class="in">```{r}</span></span>
-<span id="cb28-487"><a href="#cb28-487" aria-hidden="true" tabindex="-1"></a><span class="co">#| warning: false</span></span>
-<span id="cb28-488"><a href="#cb28-488" aria-hidden="true" tabindex="-1"></a><span class="fu">plot</span>(supplier_vi, <span class="at">max_vars =</span> <span class="dv">12</span>, <span class="at">show_boxplots =</span> <span class="cn">TRUE</span>)</span>
-<span id="cb28-489"><a href="#cb28-489" aria-hidden="true" tabindex="-1"></a><span class="in">```</span></span>
-<span id="cb28-490"><a href="#cb28-490" aria-hidden="true" tabindex="-1"></a></span>
-<span id="cb28-493"><a href="#cb28-493" aria-hidden="true" tabindex="-1"></a><span class="in">```{r}</span></span>
-<span id="cb28-494"><a href="#cb28-494" aria-hidden="true" tabindex="-1"></a><span class="co">#| warning: false</span></span>
-<span id="cb28-495"><a href="#cb28-495" aria-hidden="true" tabindex="-1"></a>selected_variables <span class="ot">&lt;-</span> <span class="fu">c</span>(</span>
-<span id="cb28-496"><a href="#cb28-496" aria-hidden="true" tabindex="-1"></a>  <span class="st">"lag_1_result"</span>, <span class="st">"month"</span>, <span class="st">"quarter"</span>, <span class="st">"derivative_region"</span>, <span class="st">"production_line"</span></span>
-<span id="cb28-497"><a href="#cb28-497" aria-hidden="true" tabindex="-1"></a>)</span>
-<span id="cb28-498"><a href="#cb28-498" aria-hidden="true" tabindex="-1"></a>supplier_pd <span class="ot">&lt;-</span> <span class="fu">model_profile</span>(lgbm_exp, <span class="at">variables =</span> selected_variables)<span class="sc">$</span>agr_profiles</span>
-<span id="cb28-499"><a href="#cb28-499" aria-hidden="true" tabindex="-1"></a></span>
-<span id="cb28-500"><a href="#cb28-500" aria-hidden="true" tabindex="-1"></a><span class="fu">plot</span>(supplier_pd) <span class="sc">+</span></span>
-<span id="cb28-501"><a href="#cb28-501" aria-hidden="true" tabindex="-1"></a>  <span class="fu">ggtitle</span>(<span class="st">"Partial Dependence profiles for selected variables"</span>)</span>
-<span id="cb28-502"><a href="#cb28-502" aria-hidden="true" tabindex="-1"></a><span class="in">```</span></span>
+<span id="cb28-425"><a href="#cb28-425" aria-hidden="true" tabindex="-1"></a></span>
+<span id="cb28-426"><a href="#cb28-426" aria-hidden="true" tabindex="-1"></a><span class="fu">### Evaluation: Out-of-sample for most recent month on supplier, derivative level</span></span>
+<span id="cb28-427"><a href="#cb28-427" aria-hidden="true" tabindex="-1"></a></span>
+<span id="cb28-430"><a href="#cb28-430" aria-hidden="true" tabindex="-1"></a><span class="in">```{r}</span></span>
+<span id="cb28-431"><a href="#cb28-431" aria-hidden="true" tabindex="-1"></a><span class="co">#| label: out-of-sample-prediction</span></span>
+<span id="cb28-432"><a href="#cb28-432" aria-hidden="true" tabindex="-1"></a></span>
+<span id="cb28-433"><a href="#cb28-433" aria-hidden="true" tabindex="-1"></a>prediction<span class="sc">$</span>confusion <span class="sc">%&gt;%</span> </span>
+<span id="cb28-434"><a href="#cb28-434" aria-hidden="true" tabindex="-1"></a>  knitr<span class="sc">::</span><span class="fu">kable</span>(<span class="at">caption =</span> <span class="st">"Confusion Matrix"</span>)</span>
+<span id="cb28-435"><a href="#cb28-435" aria-hidden="true" tabindex="-1"></a><span class="in">```</span></span>
+<span id="cb28-436"><a href="#cb28-436" aria-hidden="true" tabindex="-1"></a></span>
+<span id="cb28-437"><a href="#cb28-437" aria-hidden="true" tabindex="-1"></a></span>
+<span id="cb28-440"><a href="#cb28-440" aria-hidden="true" tabindex="-1"></a><span class="in">```{r}</span></span>
+<span id="cb28-441"><a href="#cb28-441" aria-hidden="true" tabindex="-1"></a>measures <span class="ot">&lt;-</span> <span class="fu">msrs</span>(<span class="fu">c</span>(<span class="st">"classif.acc"</span>, <span class="st">"classif.ce"</span>, <span class="st">"classif.logloss"</span>))</span>
+<span id="cb28-442"><a href="#cb28-442" aria-hidden="true" tabindex="-1"></a>prediction<span class="sc">$</span><span class="fu">score</span>(measures) <span class="sc">%&gt;%</span> </span>
+<span id="cb28-443"><a href="#cb28-443" aria-hidden="true" tabindex="-1"></a>  tibble<span class="sc">::</span><span class="fu">enframe</span>(<span class="at">name =</span> <span class="st">"Metric"</span>, <span class="at">value =</span> <span class="st">"Value"</span>) <span class="sc">%&gt;%</span> </span>
+<span id="cb28-444"><a href="#cb28-444" aria-hidden="true" tabindex="-1"></a>  <span class="fu">mutate</span>(<span class="at">Value =</span> <span class="fu">sprintf</span>(<span class="st">"%.2f%%"</span>, Value <span class="sc">*</span> <span class="dv">100</span>))</span>
+<span id="cb28-445"><a href="#cb28-445" aria-hidden="true" tabindex="-1"></a><span class="in">```</span></span>
+<span id="cb28-446"><a href="#cb28-446" aria-hidden="true" tabindex="-1"></a></span>
+<span id="cb28-449"><a href="#cb28-449" aria-hidden="true" tabindex="-1"></a><span class="in">```{r}</span></span>
+<span id="cb28-450"><a href="#cb28-450" aria-hidden="true" tabindex="-1"></a><span class="co">#| label: accuracy-plot</span></span>
+<span id="cb28-451"><a href="#cb28-451" aria-hidden="true" tabindex="-1"></a><span class="co">#| warning: false</span></span>
+<span id="cb28-452"><a href="#cb28-452" aria-hidden="true" tabindex="-1"></a><span class="fu">library</span>(mlr3viz)</span>
+<span id="cb28-453"><a href="#cb28-453" aria-hidden="true" tabindex="-1"></a></span>
+<span id="cb28-454"><a href="#cb28-454" aria-hidden="true" tabindex="-1"></a><span class="fu">autoplot</span>(prediction)</span>
+<span id="cb28-455"><a href="#cb28-455" aria-hidden="true" tabindex="-1"></a><span class="in">```</span></span>
+<span id="cb28-456"><a href="#cb28-456" aria-hidden="true" tabindex="-1"></a></span>
+<span id="cb28-457"><a href="#cb28-457" aria-hidden="true" tabindex="-1"></a><span class="fu">### Model explaination with DALEX</span></span>
+<span id="cb28-458"><a href="#cb28-458" aria-hidden="true" tabindex="-1"></a></span>
+<span id="cb28-461"><a href="#cb28-461" aria-hidden="true" tabindex="-1"></a><span class="in">```{r}</span></span>
+<span id="cb28-462"><a href="#cb28-462" aria-hidden="true" tabindex="-1"></a><span class="co">#| warning: false</span></span>
+<span id="cb28-463"><a href="#cb28-463" aria-hidden="true" tabindex="-1"></a><span class="fu">library</span>(<span class="st">"DALEX"</span>)</span>
+<span id="cb28-464"><a href="#cb28-464" aria-hidden="true" tabindex="-1"></a><span class="fu">library</span>(<span class="st">"DALEXtra"</span>)</span>
+<span id="cb28-465"><a href="#cb28-465" aria-hidden="true" tabindex="-1"></a></span>
+<span id="cb28-466"><a href="#cb28-466" aria-hidden="true" tabindex="-1"></a>lgbm_exp <span class="ot">&lt;-</span> <span class="fu">explain_mlr3</span>(learner,</span>
+<span id="cb28-467"><a href="#cb28-467" aria-hidden="true" tabindex="-1"></a>  <span class="at">data =</span> supplier <span class="sc">%&gt;%</span> <span class="fu">select</span>(<span class="sc">-</span>recent_month),</span>
+<span id="cb28-468"><a href="#cb28-468" aria-hidden="true" tabindex="-1"></a>  <span class="at">y =</span> <span class="fu">as.integer</span>(supplier<span class="sc">$</span>result),</span>
+<span id="cb28-469"><a href="#cb28-469" aria-hidden="true" tabindex="-1"></a>  <span class="at">label =</span> <span class="st">"LGBM"</span>,</span>
+<span id="cb28-470"><a href="#cb28-470" aria-hidden="true" tabindex="-1"></a>  <span class="at">colorize =</span> <span class="cn">TRUE</span> </span>
+<span id="cb28-471"><a href="#cb28-471" aria-hidden="true" tabindex="-1"></a>)</span>
+<span id="cb28-472"><a href="#cb28-472" aria-hidden="true" tabindex="-1"></a>supplier_vi <span class="ot">&lt;-</span> <span class="fu">model_parts</span>(lgbm_exp)</span>
+<span id="cb28-473"><a href="#cb28-473" aria-hidden="true" tabindex="-1"></a><span class="fu">head</span>(supplier_vi)</span>
+<span id="cb28-474"><a href="#cb28-474" aria-hidden="true" tabindex="-1"></a><span class="in">```</span></span>
+<span id="cb28-475"><a href="#cb28-475" aria-hidden="true" tabindex="-1"></a></span>
+<span id="cb28-478"><a href="#cb28-478" aria-hidden="true" tabindex="-1"></a><span class="in">```{r}</span></span>
+<span id="cb28-479"><a href="#cb28-479" aria-hidden="true" tabindex="-1"></a><span class="co">#| warning: false</span></span>
+<span id="cb28-480"><a href="#cb28-480" aria-hidden="true" tabindex="-1"></a><span class="fu">plot</span>(supplier_vi, <span class="at">max_vars =</span> <span class="dv">12</span>, <span class="at">show_boxplots =</span> <span class="cn">TRUE</span>)</span>
+<span id="cb28-481"><a href="#cb28-481" aria-hidden="true" tabindex="-1"></a><span class="in">```</span></span>
+<span id="cb28-482"><a href="#cb28-482" aria-hidden="true" tabindex="-1"></a></span>
+<span id="cb28-485"><a href="#cb28-485" aria-hidden="true" tabindex="-1"></a><span class="in">```{r}</span></span>
+<span id="cb28-486"><a href="#cb28-486" aria-hidden="true" tabindex="-1"></a><span class="co">#| warning: false</span></span>
+<span id="cb28-487"><a href="#cb28-487" aria-hidden="true" tabindex="-1"></a>selected_variables <span class="ot">&lt;-</span> <span class="fu">c</span>(</span>
+<span id="cb28-488"><a href="#cb28-488" aria-hidden="true" tabindex="-1"></a>  <span class="st">"lag_1_result"</span>, <span class="st">"month"</span>, <span class="st">"quarter"</span>, <span class="st">"derivative_region"</span>, <span class="st">"production_line"</span></span>
+<span id="cb28-489"><a href="#cb28-489" aria-hidden="true" tabindex="-1"></a>)</span>
+<span id="cb28-490"><a href="#cb28-490" aria-hidden="true" tabindex="-1"></a>supplier_pd <span class="ot">&lt;-</span> <span class="fu">model_profile</span>(lgbm_exp, <span class="at">variables =</span> selected_variables)<span class="sc">$</span>agr_profiles</span>
+<span id="cb28-491"><a href="#cb28-491" aria-hidden="true" tabindex="-1"></a></span>
+<span id="cb28-492"><a href="#cb28-492" aria-hidden="true" tabindex="-1"></a><span class="fu">plot</span>(supplier_pd) <span class="sc">+</span></span>
+<span id="cb28-493"><a href="#cb28-493" aria-hidden="true" tabindex="-1"></a>  <span class="fu">ggtitle</span>(<span class="st">"Partial Dependence profiles for selected variables"</span>)</span>
+<span id="cb28-494"><a href="#cb28-494" aria-hidden="true" tabindex="-1"></a><span class="in">```</span></span>
 </code><button title="Copy to Clipboard" class="code-copy-button"><i class="bi"></i></button></pre></div>
 </div></div></div></div></div>
 </div> <!-- /content -->
